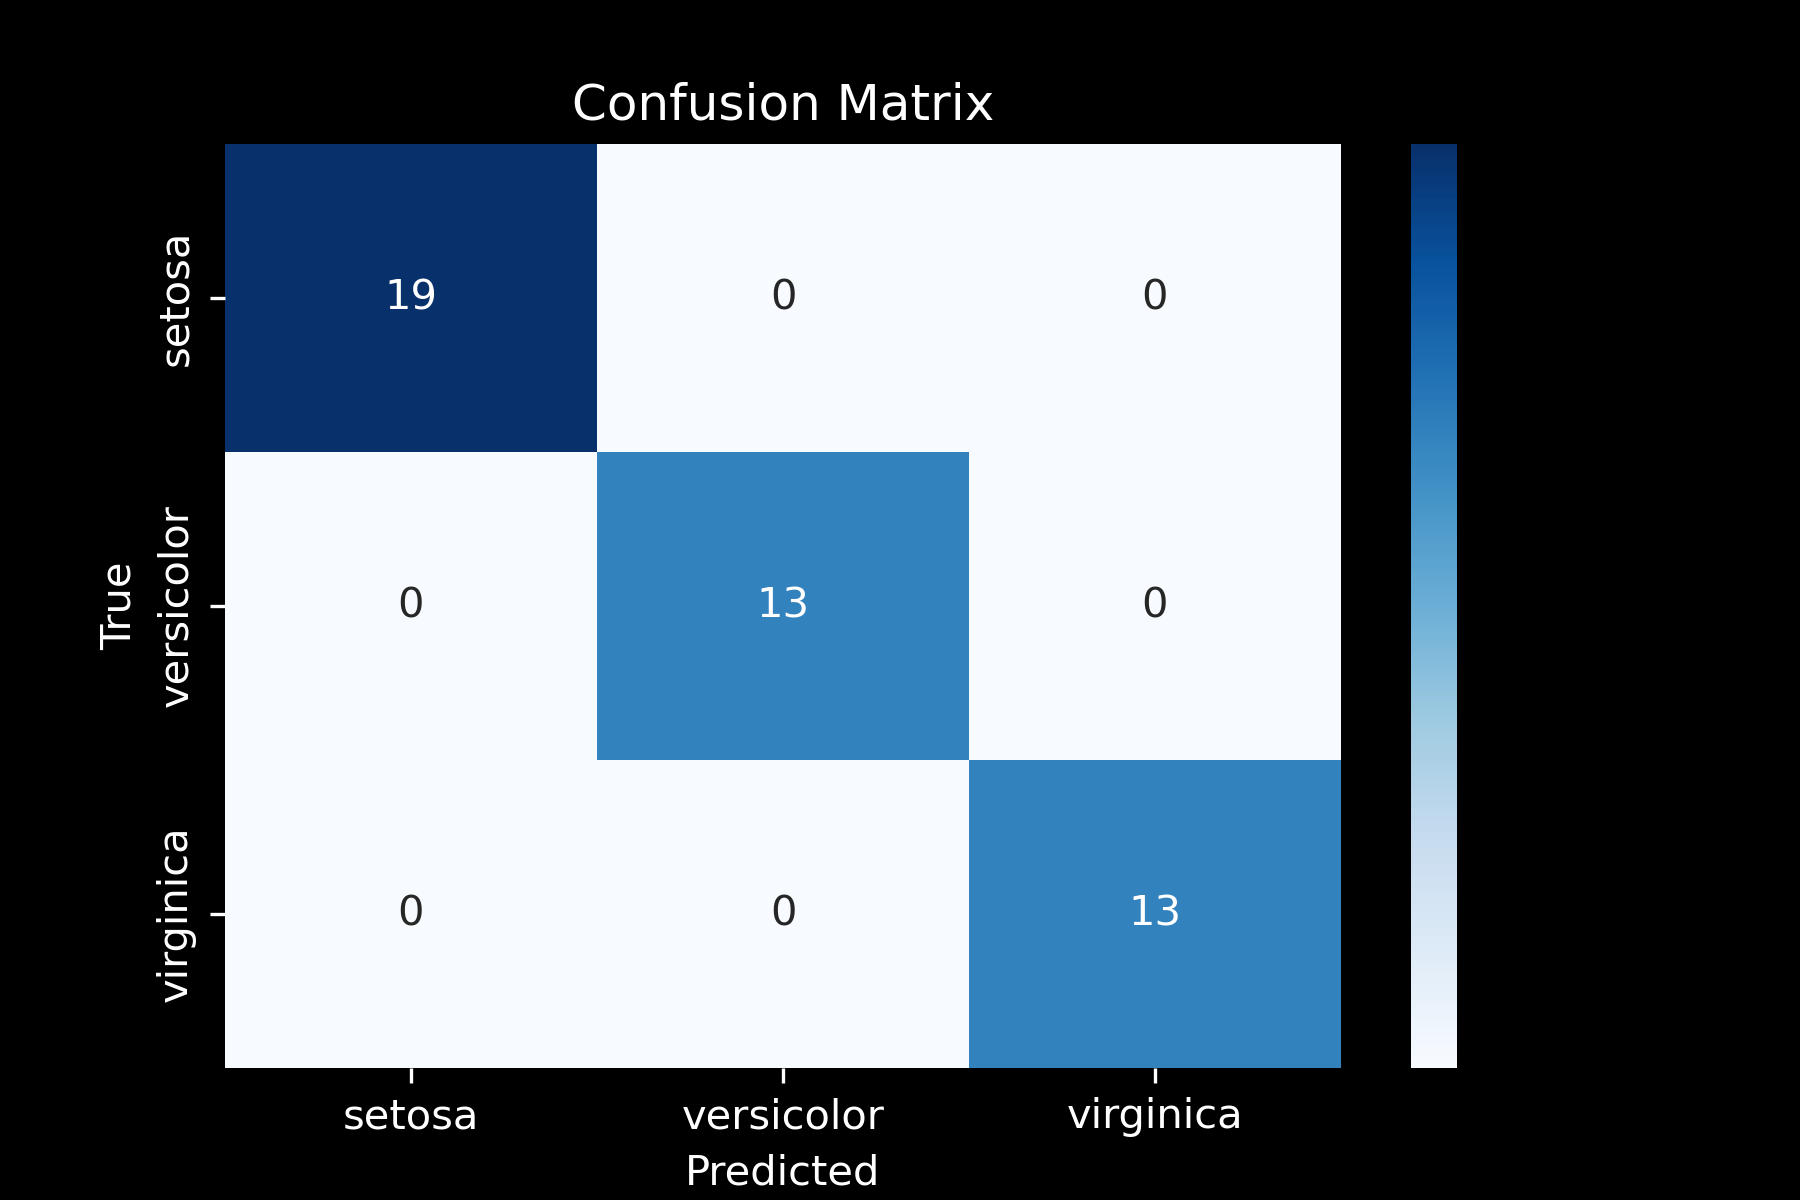
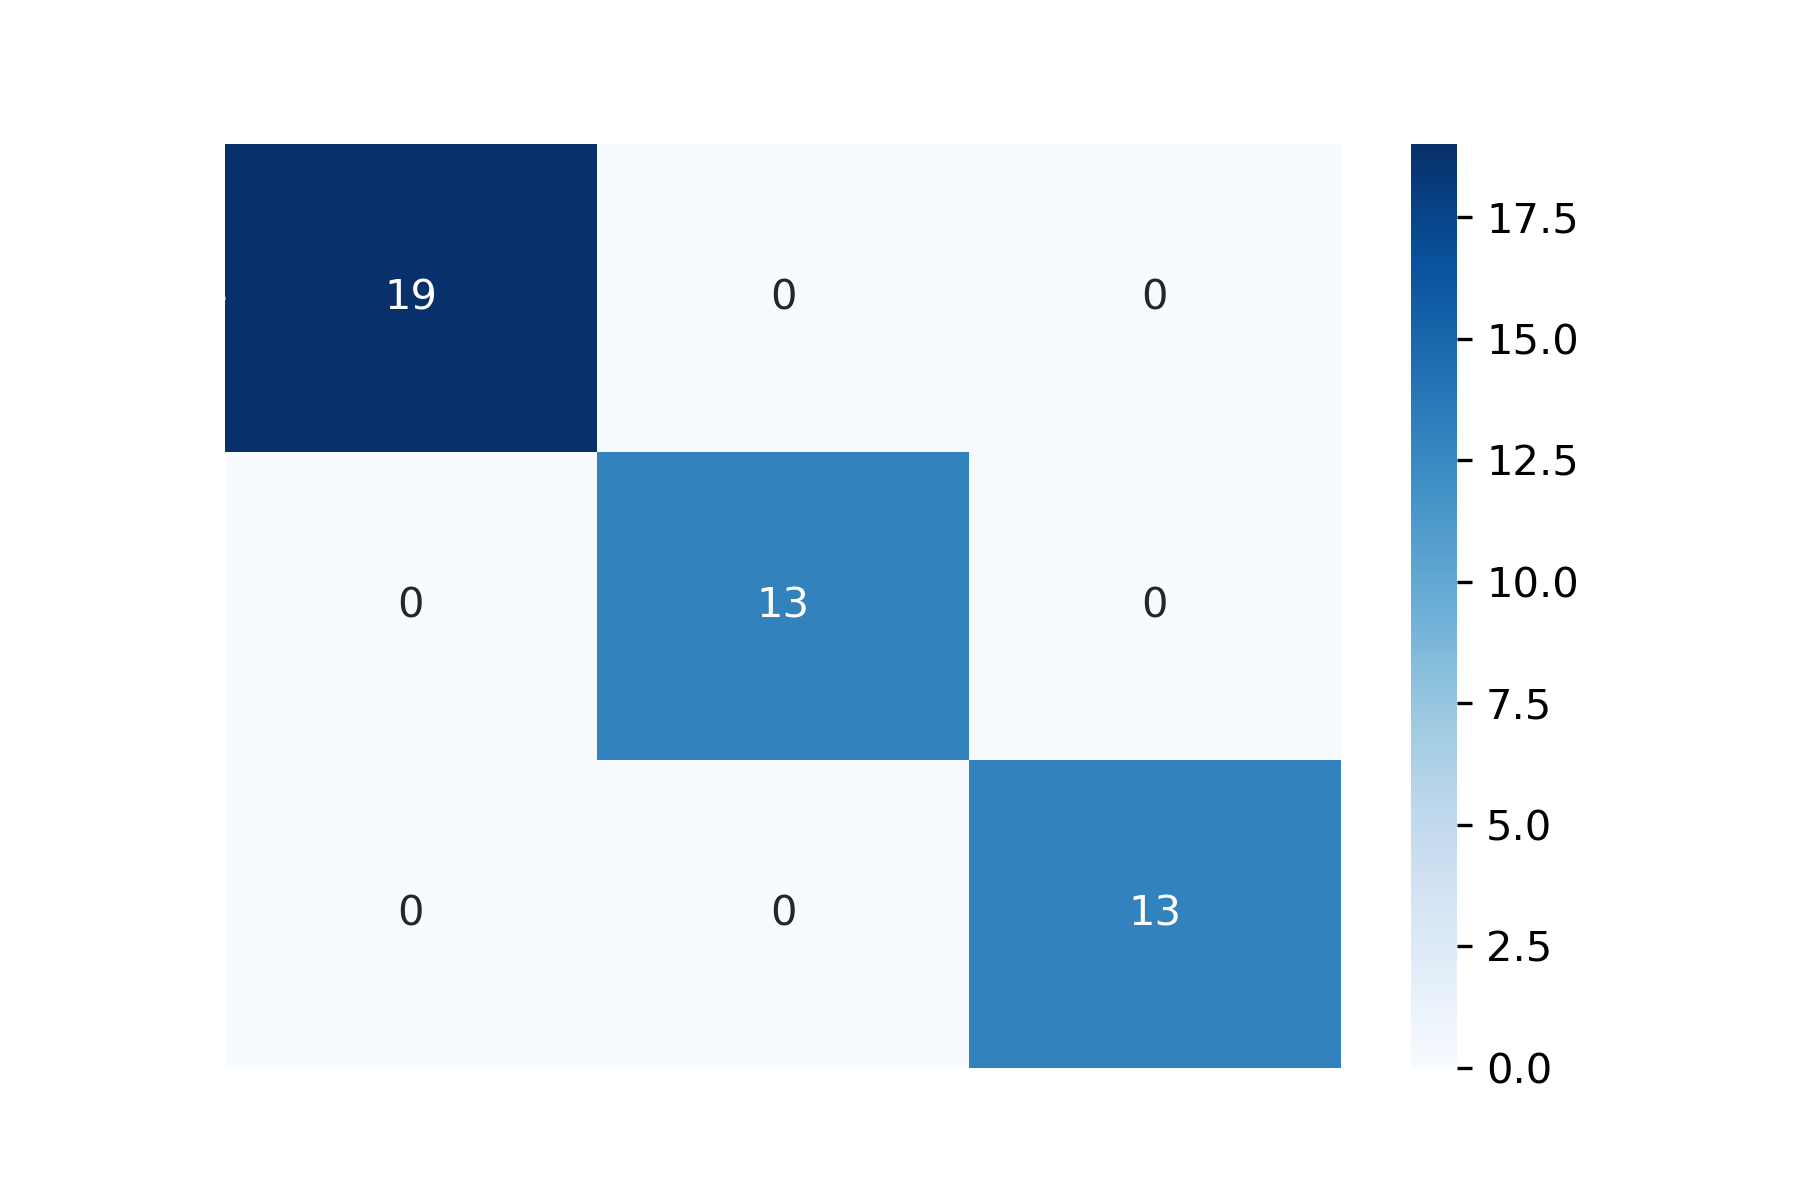
modifications to the code samples

diff --git a/machine_learning/classification/iris/svm/linear_svm_moons.py b/machine_learning/classification/iris/svm/linear_svm_moons.py
@@ -7,6 +7,7 @@ from sklearn.preprocessing import StandardScaler
 from sklearn.svm import SVC
 from sklearn.metrics import accuracy_score, classification_report
 import seaborn as sns
+from sklearn.metrics import confusion_matrix
 
 # Step 1: Load the Moons dataset
 X, y = make_moons(n_samples=200, noise=0.2, random_state=42)  # 200 samples, some noise for realism
@@ -56,7 +57,7 @@ def plot_decision_boundary(X, y, model, title, filename):
     plt.xlabel('Feature X1 (standardized)', color='white')
     plt.ylabel('Feature X2 (standardized)', color='white')
     plt.title(title, color='white')
-    plt.savefig(filename, dpi=300, facecolor='black')  # Save figure with high quality
+    plt.savefig(filename, dpi=300, facecolor='none')  # Save figure with high quality
     plt.show()
 
 # Plot and save decision boundary for training data
@@ -70,11 +71,10 @@ plot_decision_boundary(X_test_scaled, y_test, svm_clf,
                        "svm_linear_moons_test_boundary.png")
 
 # Step 7: Bonus - Confusion Matrix
-from sklearn.metrics import confusion_matrix
 cm = confusion_matrix(y_test, y_pred)
-plt.figure(figsize=(6, 4), facecolor='black')  # Black figure background
+plt.figure(figsize=(6, 4), facecolor='none')
 ax = plt.gca()
-ax.set_facecolor('black')  # Black axes background
+ax.set_facecolor('none')  
 for spine in ax.spines.values():
     spine.set_color('white')
 ax.tick_params(axis='both', colors='white')
@@ -82,5 +82,5 @@ sns.heatmap(cm, annot=True, fmt='d', cmap='Blues', xticklabels=['Moon 0', 'Moon 
 plt.xlabel('Predicted', color='white')
 plt.ylabel('True', color='white')
 plt.title('Confusion Matrix - Moons (Linear SVM)', color='white')
-plt.savefig('confusion_matrix_moons_linear.png', dpi=300, facecolor='black')  # Save confusion matrix
+plt.savefig('confusion_matrix_moons_linear.png', dpi=300, facecolor='none')  # Save confusion matrix
 plt.show()

diff --git a/machine_learning/classification/iris/svm/nonlinear_svm_moons.py b/machine_learning/classification/iris/svm/nonlinear_svm_moons.py
@@ -7,6 +7,7 @@ from sklearn.preprocessing import StandardScaler
 from sklearn.svm import SVC
 from sklearn.metrics import accuracy_score, classification_report
 import seaborn as sns
+from sklearn.metrics import confusion_matrix
 
 # Step 1: Load the Moons dataset
 X, y = make_moons(n_samples=200, noise=0.2, random_state=42)  # 200 samples, some noise for realism
@@ -56,7 +57,7 @@ def plot_decision_boundary(X, y, model, title, filename):
     plt.xlabel('Feature X1 (standardized)', color='white')
     plt.ylabel('Feature X2 (standardized)', color='white')
     plt.title(title, color='white')
-    plt.savefig(filename, dpi=300, facecolor='black')  # Save figure with high quality
+    plt.savefig(filename, dpi=300, facecolor='none')  # Save figure with high quality
     plt.show()
 
 # Plot and save decision boundary for training data
@@ -70,11 +71,10 @@ plot_decision_boundary(X_test_scaled, y_test, svm_clf,
                        "svm_moons_test_boundary.png")
 
 # Step 7: Bonus - Confusion Matrix
-from sklearn.metrics import confusion_matrix
 cm = confusion_matrix(y_test, y_pred)
-plt.figure(figsize=(6, 4), facecolor='black')  # Black figure background
+plt.figure(figsize=(6, 4), facecolor='none') 
 ax = plt.gca()
-ax.set_facecolor('black')  # Black axes background
+ax.set_facecolor('none')
 for spine in ax.spines.values():
     spine.set_color('white')
 ax.tick_params(axis='both', colors='white')
@@ -82,5 +82,5 @@ sns.heatmap(cm, annot=True, fmt='d', cmap='Blues', xticklabels=['Moon 0', 'Moon 
 plt.xlabel('Predicted', color='white')
 plt.ylabel('True', color='white')
 plt.title('Confusion Matrix - Moons', color='white')
-plt.savefig('confusion_matrix_moons.png', dpi=300, facecolor='black')  # Save confusion matrix
+plt.savefig('confusion_matrix_moons.png', dpi=300, facecolor='none')  # Save confusion matrix
 plt.show()

diff --git a/machine_learning/classification/iris/svm/nonlinear_svm.py b/machine_learning/classification/iris/svm/nonlinear_svm.py
@@ -7,6 +7,7 @@ from sklearn.preprocessing import StandardScaler
 from sklearn.svm import SVC
 from sklearn.metrics import accuracy_score, classification_report
 import seaborn as sns
+from sklearn.metrics import confusion_matrix
 
 # Step 1: Load the Iris dataset
 iris = datasets.load_iris()
@@ -58,7 +59,7 @@ def plot_decision_boundary(X, y, model, title, filename):
     plt.xlabel('Petal Length (standardized)', color='white')
     plt.ylabel('Petal Width (standardized)', color='white')
     plt.title(title, color='white')
-    plt.savefig(filename, dpi=300, facecolor='black')  # Save figure with high quality
+    plt.savefig(filename, dpi=300, facecolor='none')  # Save figure with high quality
     plt.show()
 
 # Plot and save decision boundary for training data
@@ -72,11 +73,10 @@ plot_decision_boundary(X_test_scaled, y_test, svm_clf,
                        "svm_rbf_test_boundary.png")
 
 # Step 7: Bonus - Confusion Matrix
-from sklearn.metrics import confusion_matrix
 cm = confusion_matrix(y_test, y_pred)
-plt.figure(figsize=(6, 4), facecolor='black')  # Black figure background
+plt.figure(figsize=(6, 4), facecolor='none')  # Black figure background
 ax = plt.gca()
-ax.set_facecolor('black')  # Black axes background
+ax.set_facecolor('none')  # Black axes background
 for spine in ax.spines.values():
     spine.set_color('white')
 ax.tick_params(axis='both', colors='white')
@@ -84,5 +84,5 @@ sns.heatmap(cm, annot=True, fmt='d', cmap='Blues', xticklabels=iris.target_names
 plt.xlabel('Predicted', color='white')
 plt.ylabel('True', color='white')
 plt.title('Confusion Matrix', color='white')
-plt.savefig('confusion_matrix_rbf.png', dpi=300, facecolor='black')  # Save confusion matrix
+plt.savefig('confusion_matrix_rbf.png', dpi=300, facecolor='none')  # Save confusion matrix
 plt.show()

diff --git a/machine_learning/classification/iris/svm/linear_svm.py b/machine_learning/classification/iris/svm/linear_svm.py
@@ -7,6 +7,7 @@ from sklearn.preprocessing import StandardScaler
 from sklearn.svm import SVC  # SVC with linear kernel
 from sklearn.metrics import accuracy_score, classification_report
 import seaborn as sns
+from sklearn.metrics import confusion_matrix
 
 # Step 1: Load the Iris dataset
 iris = datasets.load_iris()
@@ -57,7 +58,7 @@ def plot_decision_boundary(X, y, model, title, filename):
     plt.xlabel('Petal Length (standardized)', color='white')
     plt.ylabel('Petal Width (standardized)', color='white')
     plt.title(title, color='white')
-    plt.savefig(filename, dpi=300, facecolor='black')  # Save figure with high quality
+    plt.savefig(filename, dpi=300, facecolor='none')  # Save figure with high quality
     plt.show()
 
 # Plot and save decision boundary for training data
@@ -71,11 +72,10 @@ plot_decision_boundary(X_test_scaled, y_test, svm_clf,
                        "svm_test_boundary.png")
 
 # Step 7: Bonus - Confusion Matrix
-from sklearn.metrics import confusion_matrix
 cm = confusion_matrix(y_test, y_pred)
-plt.figure(figsize=(6, 4), facecolor='black')
+plt.figure(figsize=(6, 4), facecolor='none')
 ax = plt.gca()
-ax.set_facecolor('black')  # Set axes background to black
+ax.set_facecolor('none')  
 for spine in ax.spines.values():
     spine.set_color('white')
 ax.tick_params(axis='both', colors='white')
@@ -83,5 +83,5 @@ sns.heatmap(cm, annot=True, fmt='d', cmap='Blues', xticklabels=iris.target_names
 plt.xlabel('Predicted', color='white')
 plt.ylabel('True', color='white')
 plt.title('Confusion Matrix', color='white')
-plt.savefig('confusion_matrix_linear.png', dpi=300, facecolor='black')  # Save confusion matrix
+plt.savefig('confusion_matrix_linear.png', dpi=300, facecolor='none')  # Save confusion matrix
 plt.show()

diff --git a/machine_learning/classification/mninst/gradientboost.py b/machine_learning/classification/mninst/gradientboost.py
@@ -11,16 +11,19 @@ import matplotlib.pyplot as plt
 import seaborn as sns
 
 # Load the MNIST digits dataset
+print("Loading MNIST dataset...")
 digits = load_digits()
+print("Dataset loaded!")
 
 # Create a pandas DataFrame with features
 df = pd.DataFrame(digits.data, columns=[f'pixel_{i}' for i in range(digits.data.shape[1])])
+# print(df.info())
 
-# Print feature info
-print("Features in the dataset:")
-print(df.columns.tolist())
-print("\nFirst few rows of the dataset:")
-print(df.head())
+# # Print feature info/(optional)
+# print("Features in the dataset:")
+# print(df.columns.tolist())
+# print("\nFirst few rows of the dataset:")
+# print(df.head())
 
 # Use all features
 X = df
@@ -49,6 +52,7 @@ model = GradientBoostingClassifier(
     n_estimators=100,  # Number of trees
     random_state=42
 )
+print("\nTraining Gradient Boosting Classifier...")
 model.fit(X_train_scaled, y_train)
 
 # Make predictions

diff --git a/machine_learning/classification/mninst/sgd.py b/machine_learning/classification/mninst/sgd.py
@@ -114,9 +114,9 @@ def plot_misclassified_examples(X_test, y_test, y_pred, num_examples=10):
 print("\nMisclassified Examples:")
 plot_misclassified_examples(X_test, y_test, y_pred)
 
-# Calculate per-class metrics
-print("\nPer-digit accuracy:")
-for digit in sorted(set(y_test)):
-    mask = y_test == digit
-    digit_accuracy = accuracy_score(y_test[mask], y_pred[mask])
-    print(f"Digit {digit}: {digit_accuracy:.4f}")
+# Calculate per-class metrics(optional)
+# print("\nPer-digit accuracy:")
+# for digit in sorted(set(y_test)):
+#     mask = y_test == digit
+#     digit_accuracy = accuracy_score(y_test[mask], y_pred[mask])
+#     print(f"Digit {digit}: {digit_accuracy:.4f}")

diff --git a/machine_learning/classification/mninst/decision_trees.py b/machine_learning/classification/mninst/decision_trees.py
@@ -15,12 +15,12 @@ digits = load_digits()
 # Create a pandas DataFrame with features
 df = pd.DataFrame(digits.data, columns=[f'pixel_{i}' for i in range(digits.data.shape[1])])
 
-# Print feature info
-print("Features in the dataset:")
-print(df.columns.tolist())
-print("\nFirst few rows of the dataset:")
-print(df.head())
-
+# # Print feature info(optional)
+# print("Features in the dataset:")
+# print(df.columns.tolist())
+# print("\nFirst few rows of the dataset:")
+# print(df.head())
+# print(df.info())
 # Use all features
 X = df
 y = digits.target

diff --git a/machine_learning/classification/mninst/bagging_trees.py b/machine_learning/classification/mninst/bagging_trees.py
@@ -16,11 +16,11 @@ digits = load_digits()
 # Create a pandas DataFrame with features
 df = pd.DataFrame(digits.data, columns=[f'pixel_{i}' for i in range(digits.data.shape[1])])
 
-# Print feature info
-print("Features in the dataset:")
-print(df.columns.tolist())
-print("\nFirst few rows of the dataset:")
-print(df.head())
+# # Print feature info(optional)
+# print("Features in the dataset:")
+# print(df.columns.tolist())
+# print("\nFirst few rows of the dataset:")
+# print(df.head())
 
 # Use all features
 X = df

diff --git a/machine_learning/classification/mninst/randomforest.py b/machine_learning/classification/mninst/randomforest.py
@@ -16,11 +16,11 @@ digits = load_digits()
 # Create a pandas DataFrame with features
 df = pd.DataFrame(digits.data, columns=[f'pixel_{i}' for i in range(digits.data.shape[1])])
 
-# Print feature info
-print("Features in the dataset:")
-print(df.columns.tolist())
-print("\nFirst few rows of the dataset:")
-print(df.head())
+# # Print feature info(optional)
+# print("Features in the dataset:")
+# print(df.columns.tolist())
+# print("\nFirst few rows of the dataset:")
+# print(df.head())
 
 # Use all features
 X = df
